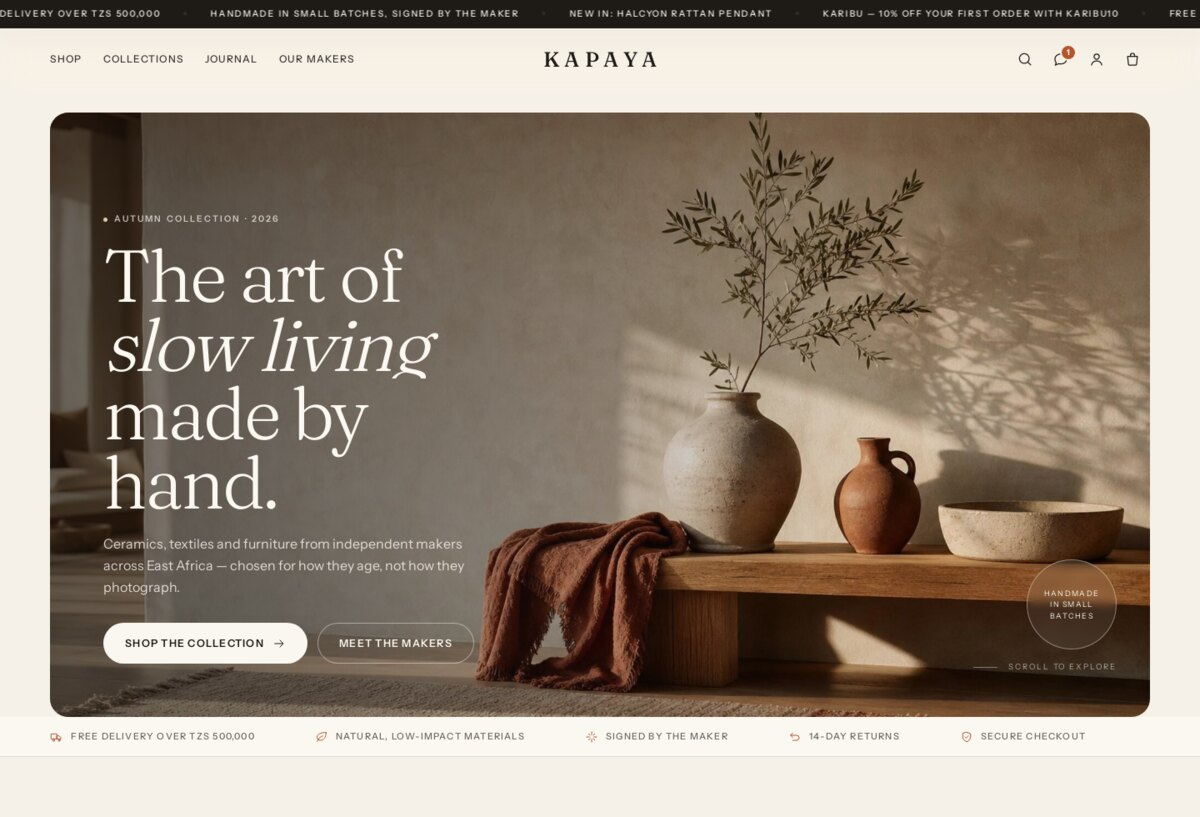
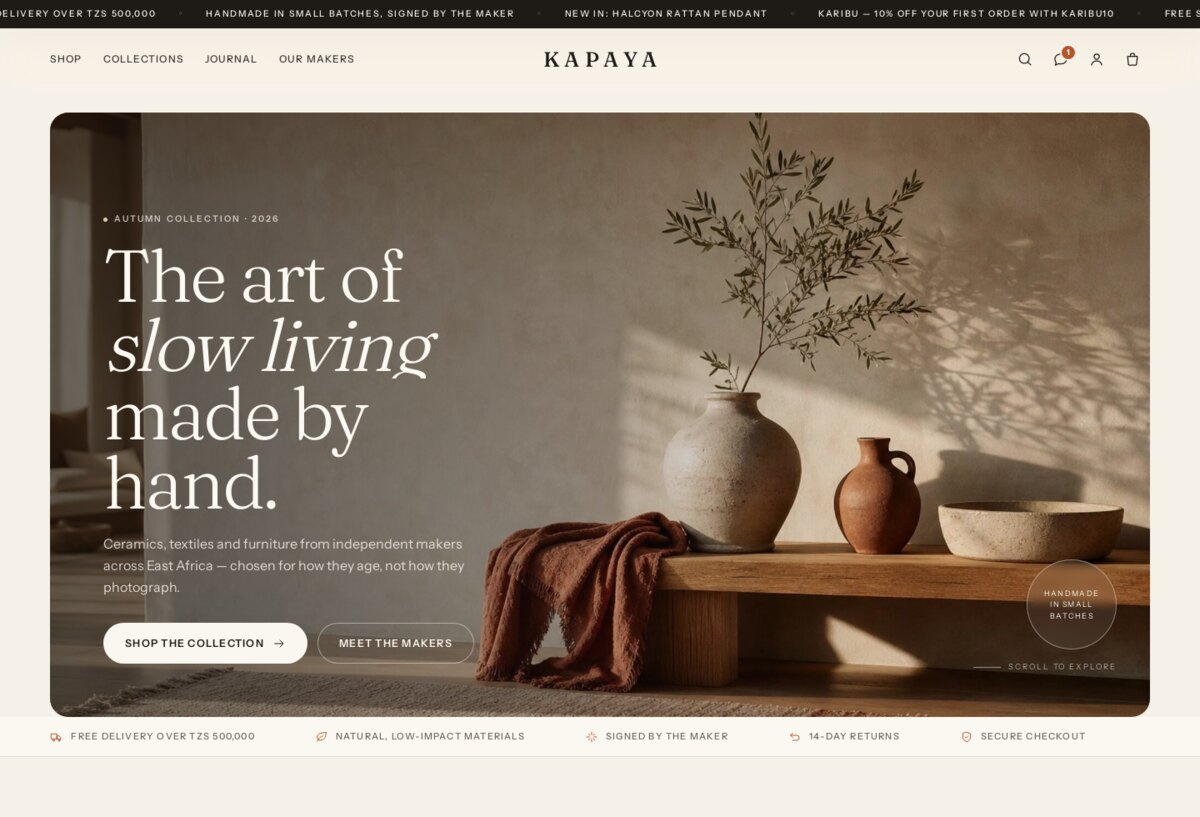
Tidy product card price row; refresh screenshots

diff --git a/src/styles/base.css b/src/styles/base.css
@@ -613,11 +613,13 @@ h5 {
   font-weight: 500;
   font-variant-numeric: tabular-nums;
   white-space: nowrap;
+  display: inline-flex;
+  align-items: baseline;
+  gap: 6px;
 }
 .pcard__price s {
   color: var(--ink-faint);
   font-weight: 400;
-  margin-right: 6px;
 }
 .pcard__meta {
   font-size: 11.5px;
